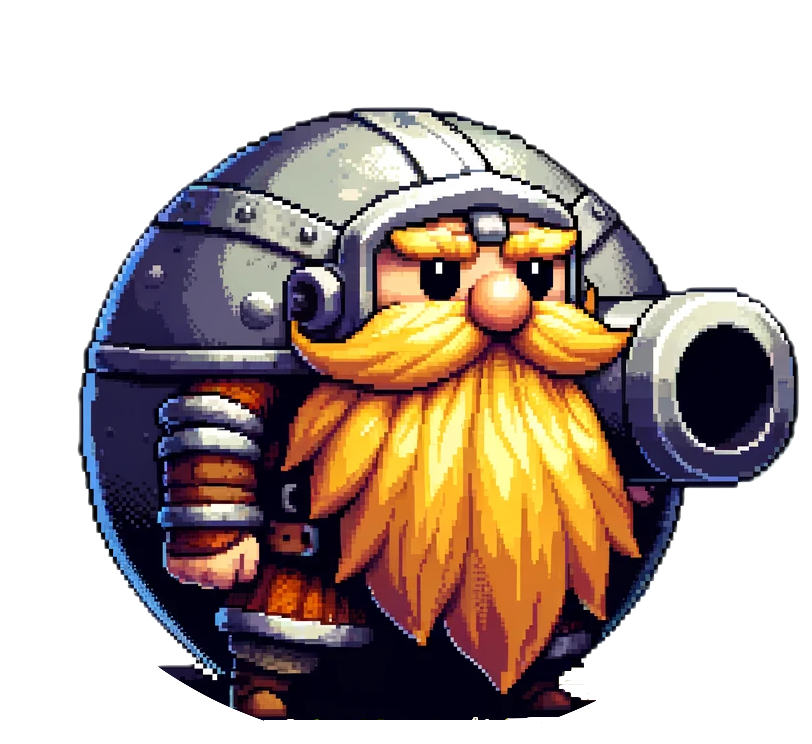
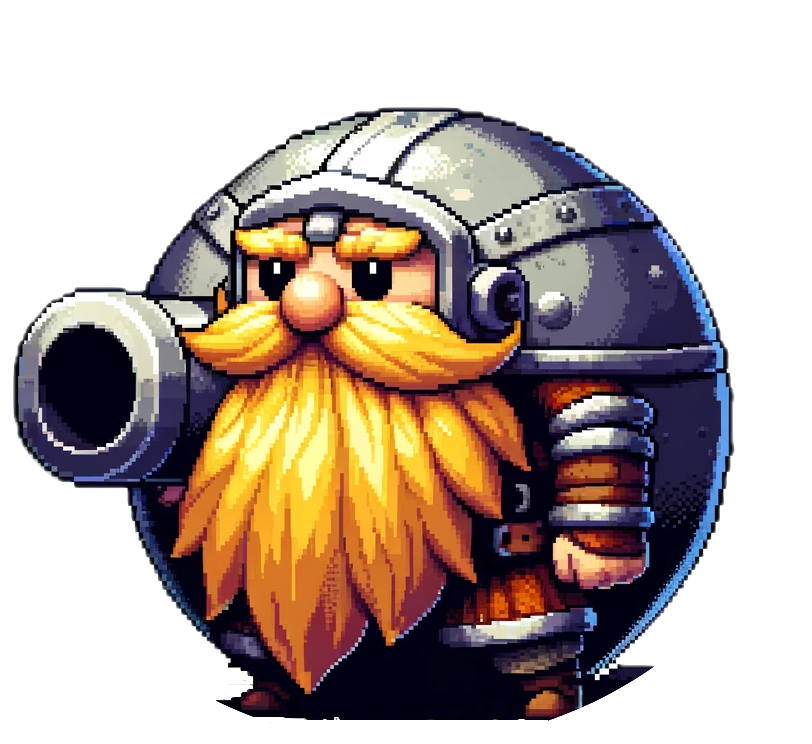
changed the dwarf sprite orientation to face the correct way and added m/s to the cart speed display

diff --git a/cart.py b/cart.py
@@ -30,7 +30,7 @@ class Cart(pygame.sprite.Sprite):
             self.kill()
 
     def draw_speed(self, screen):
-        speed_text = self.font.render(str( "%.2f" % self.speed), True, (255, 255, 255))
+        speed_text = self.font.render(str( "%.2f" % self.speed) + "m/s", True, (255, 255, 255))
         screen.blit(speed_text, (self.rect.x, self.rect.y - 20))
 
     def draw_ttl(self, screen):
